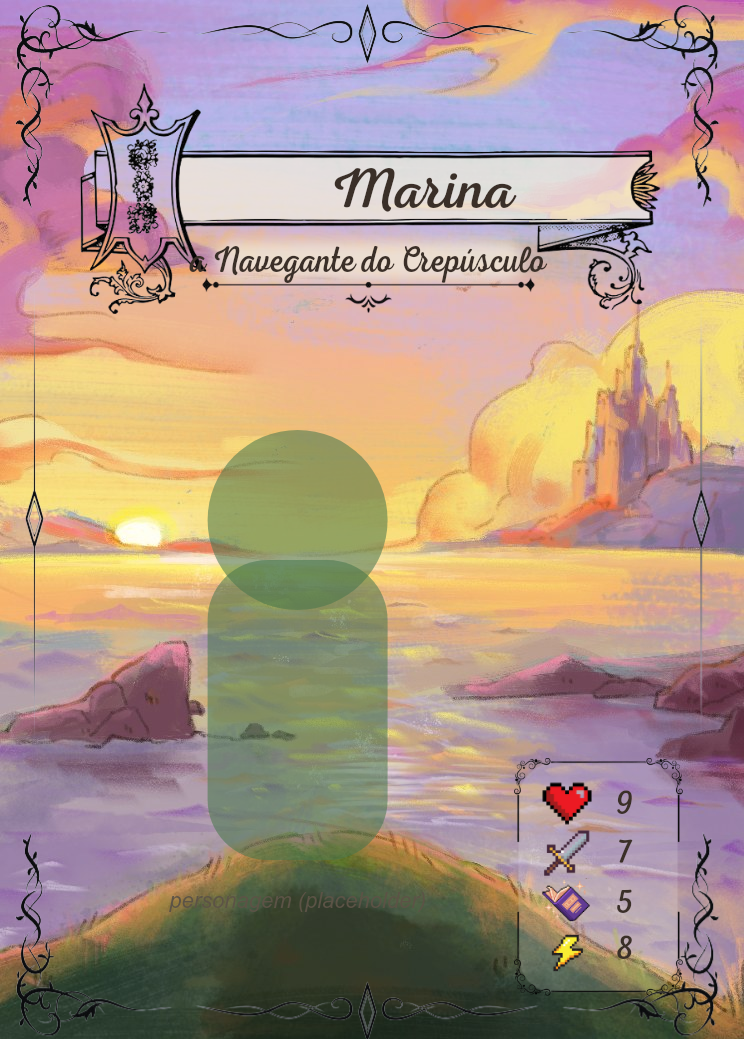
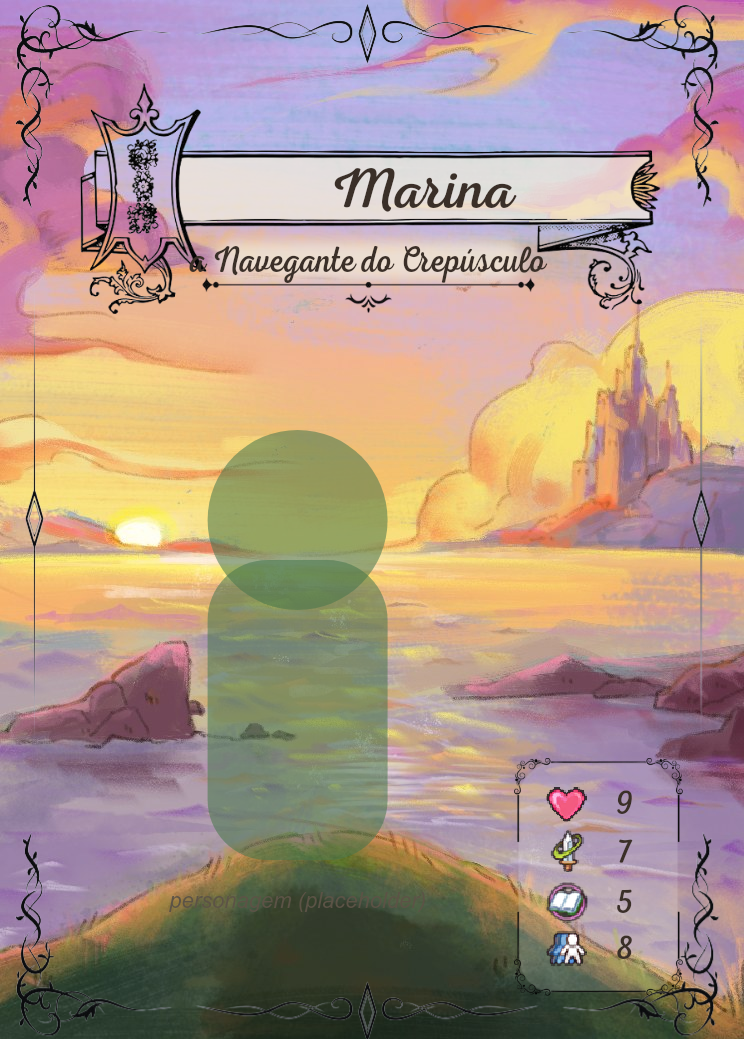
novos ícones de status

Changed region(s): [[0.711, 0.7392, 0.8038, 0.9548]]

diff --git a/docs/11-carta-composicao.md b/docs/11-carta-composicao.md
@@ -17,9 +17,9 @@ Especificação exata de como montar a carta a partir dos assets em `Assets Fina
 | **Verso** | `verso-carta.jpeg` | 745 × 1040 | verso da carta (usado só no PDF de impressão, ajustado a 744 × 1039) |
 | Name Frame | `Name Frame/Frames novos/Name Frame {Dia,Noite} Title 1.png` | **744 × 1039** | dia / noite · **full-canvas** (banner + linha de título), traço escuro/claro |
 | Name Frame Preench. | `public/assets/carta/name-preench-{dia,noite}.png` | 744 × 1039 | miolo do banner novo (gerado a partir do contorno do frame; o `Name Frame Preenchimento.png` antigo era do banner antigo e não encaixa). Dia = creme, noite = escuro |
-| Status Frame | `Status Completo/Status dia.png` · `noite.png` | 169 × 240 | dia / noite (ícones embutidos) |
+| Status Frame | `Status Completo/Status {dia,noite} (ícones novos).png` → `public/assets/carta/status-{dia,noite}.png` | 169 × 240 | dia / noite (ícones embutidos; **trocados em 18/11/2026** pelos ícones pixel-art de `Status/Novos/`, 42 px, centralizados na linha de cada número) |
 | Status Preench. | `Status Completo/Preenchimento Status.png` | 160 × 231 | semitransparente |
-| Ícones de status | `Status/{Vida,Força,Intelecto,Velocidade}.png` | 125 × 125 | uso na UI do app (na carta já vêm no frame) |
+| Ícones de status | `Status/Novos/{Vida,Força,Intelecto,Destreza}.png` (atuais, 32 × 32) · `Status/*.png` (antigos) | — | na carta já vêm embutidos no frame |
 
 > Os ícones dos 4 status **já estão embutidos** no "Status dia/noite". Os PNGs soltos em `Status/` servem para a **interface do app** (ex.: tela da ficha).
 
